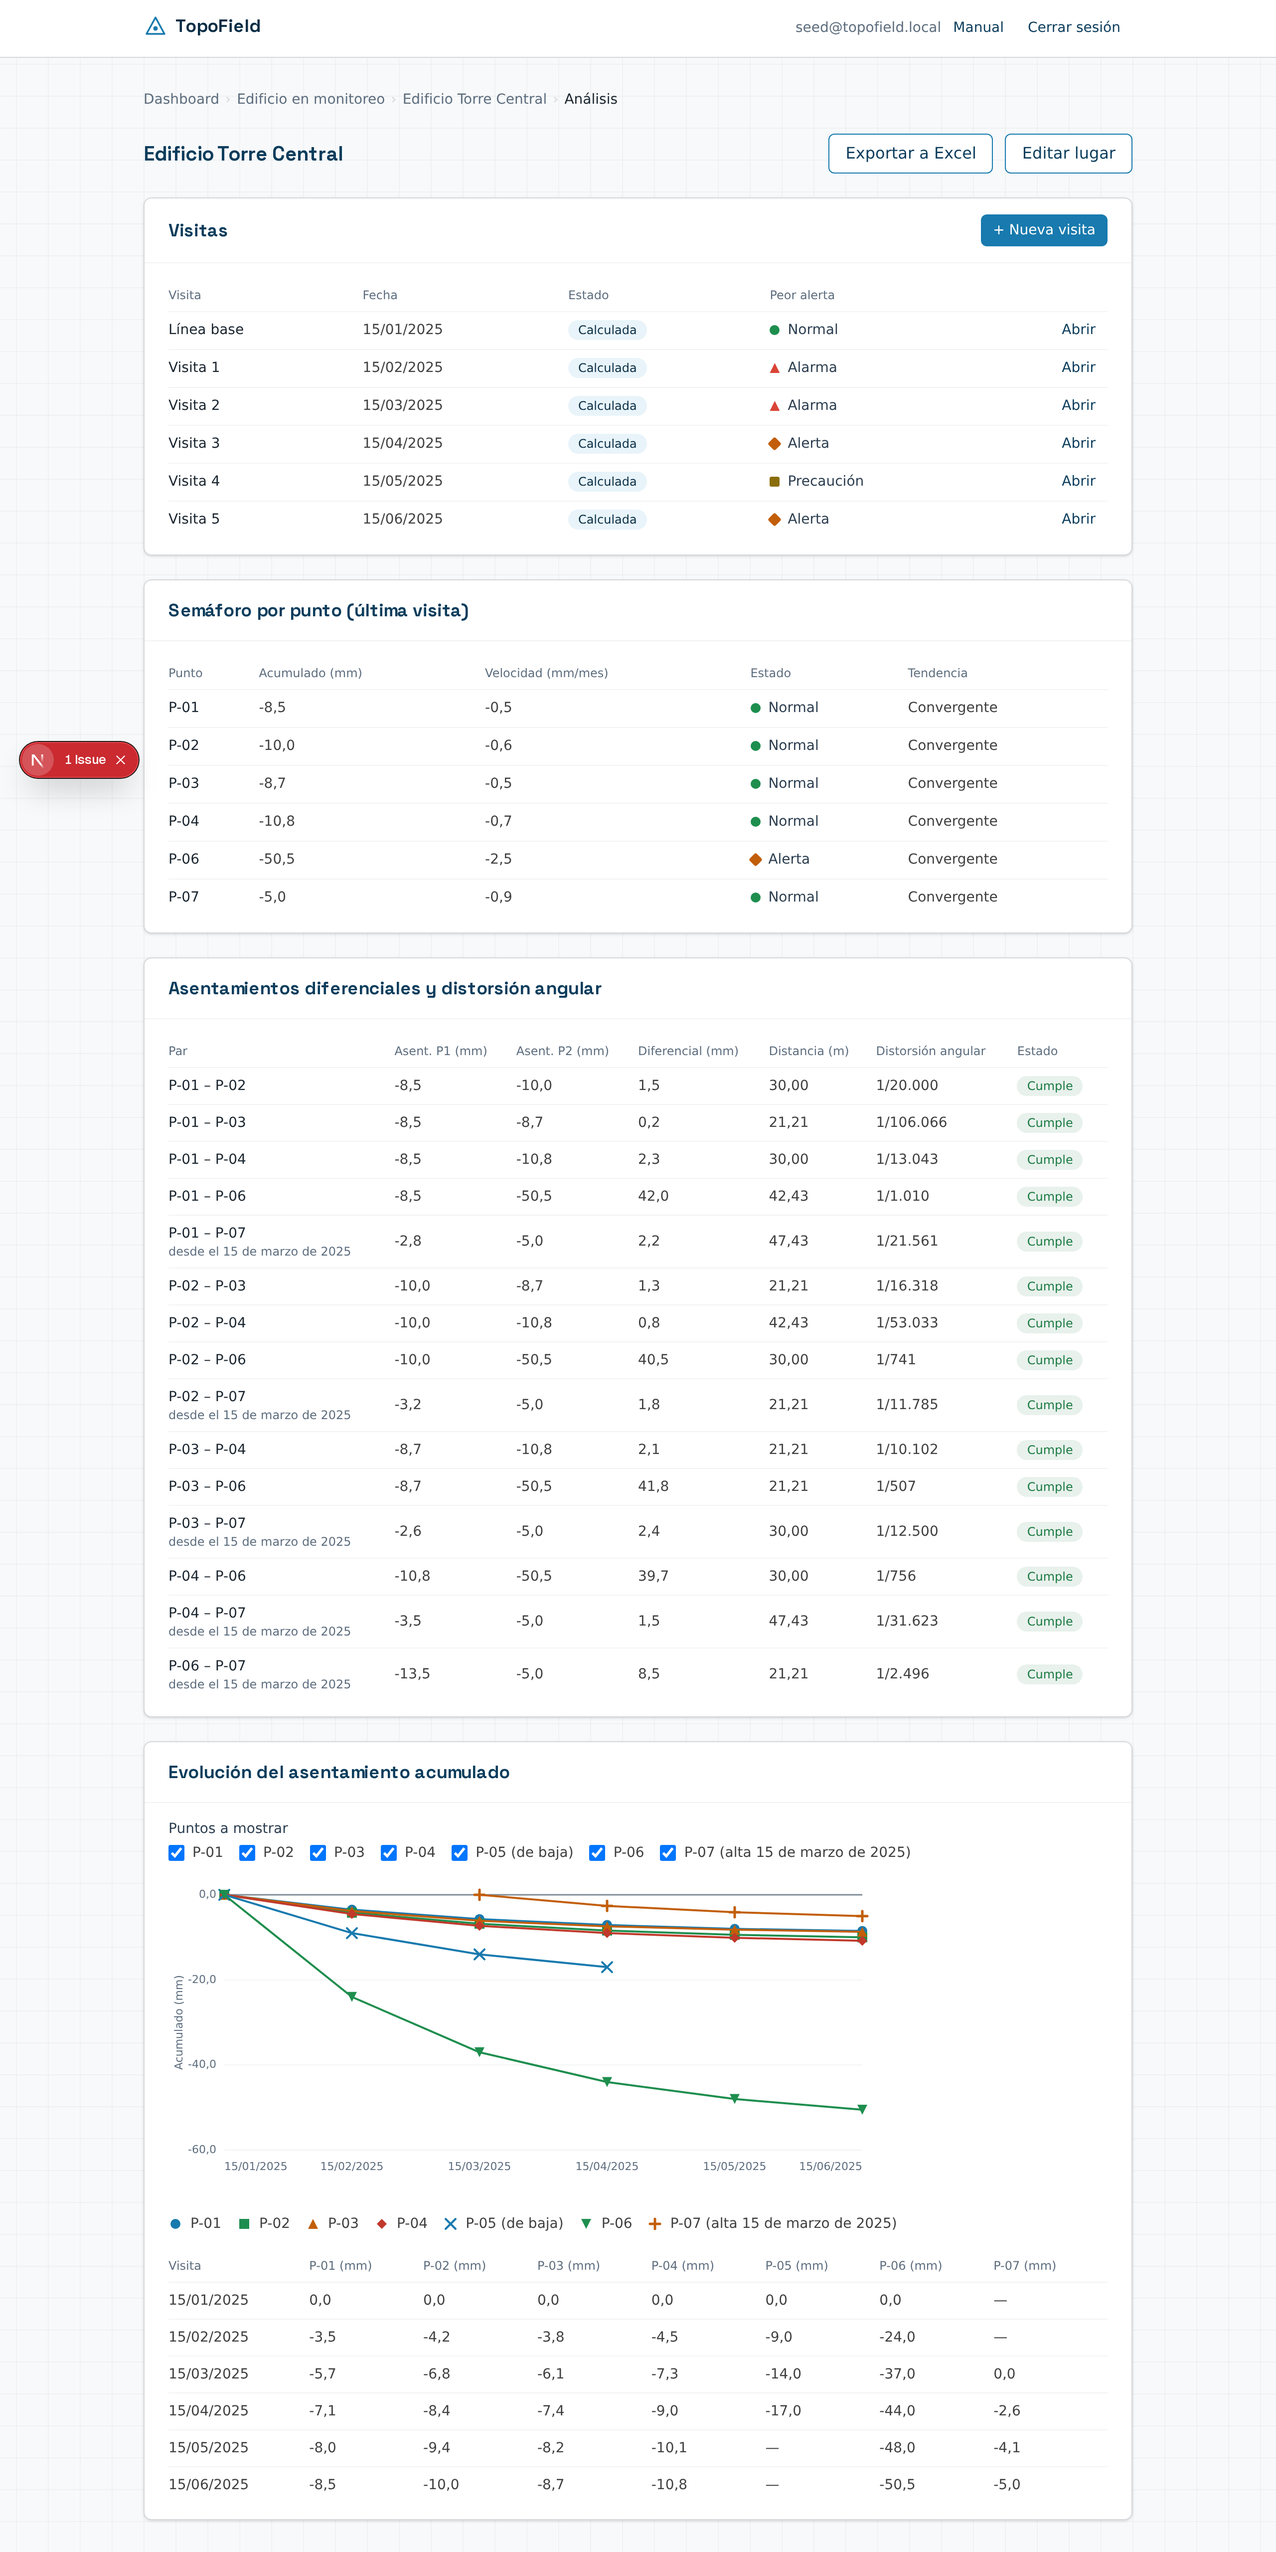
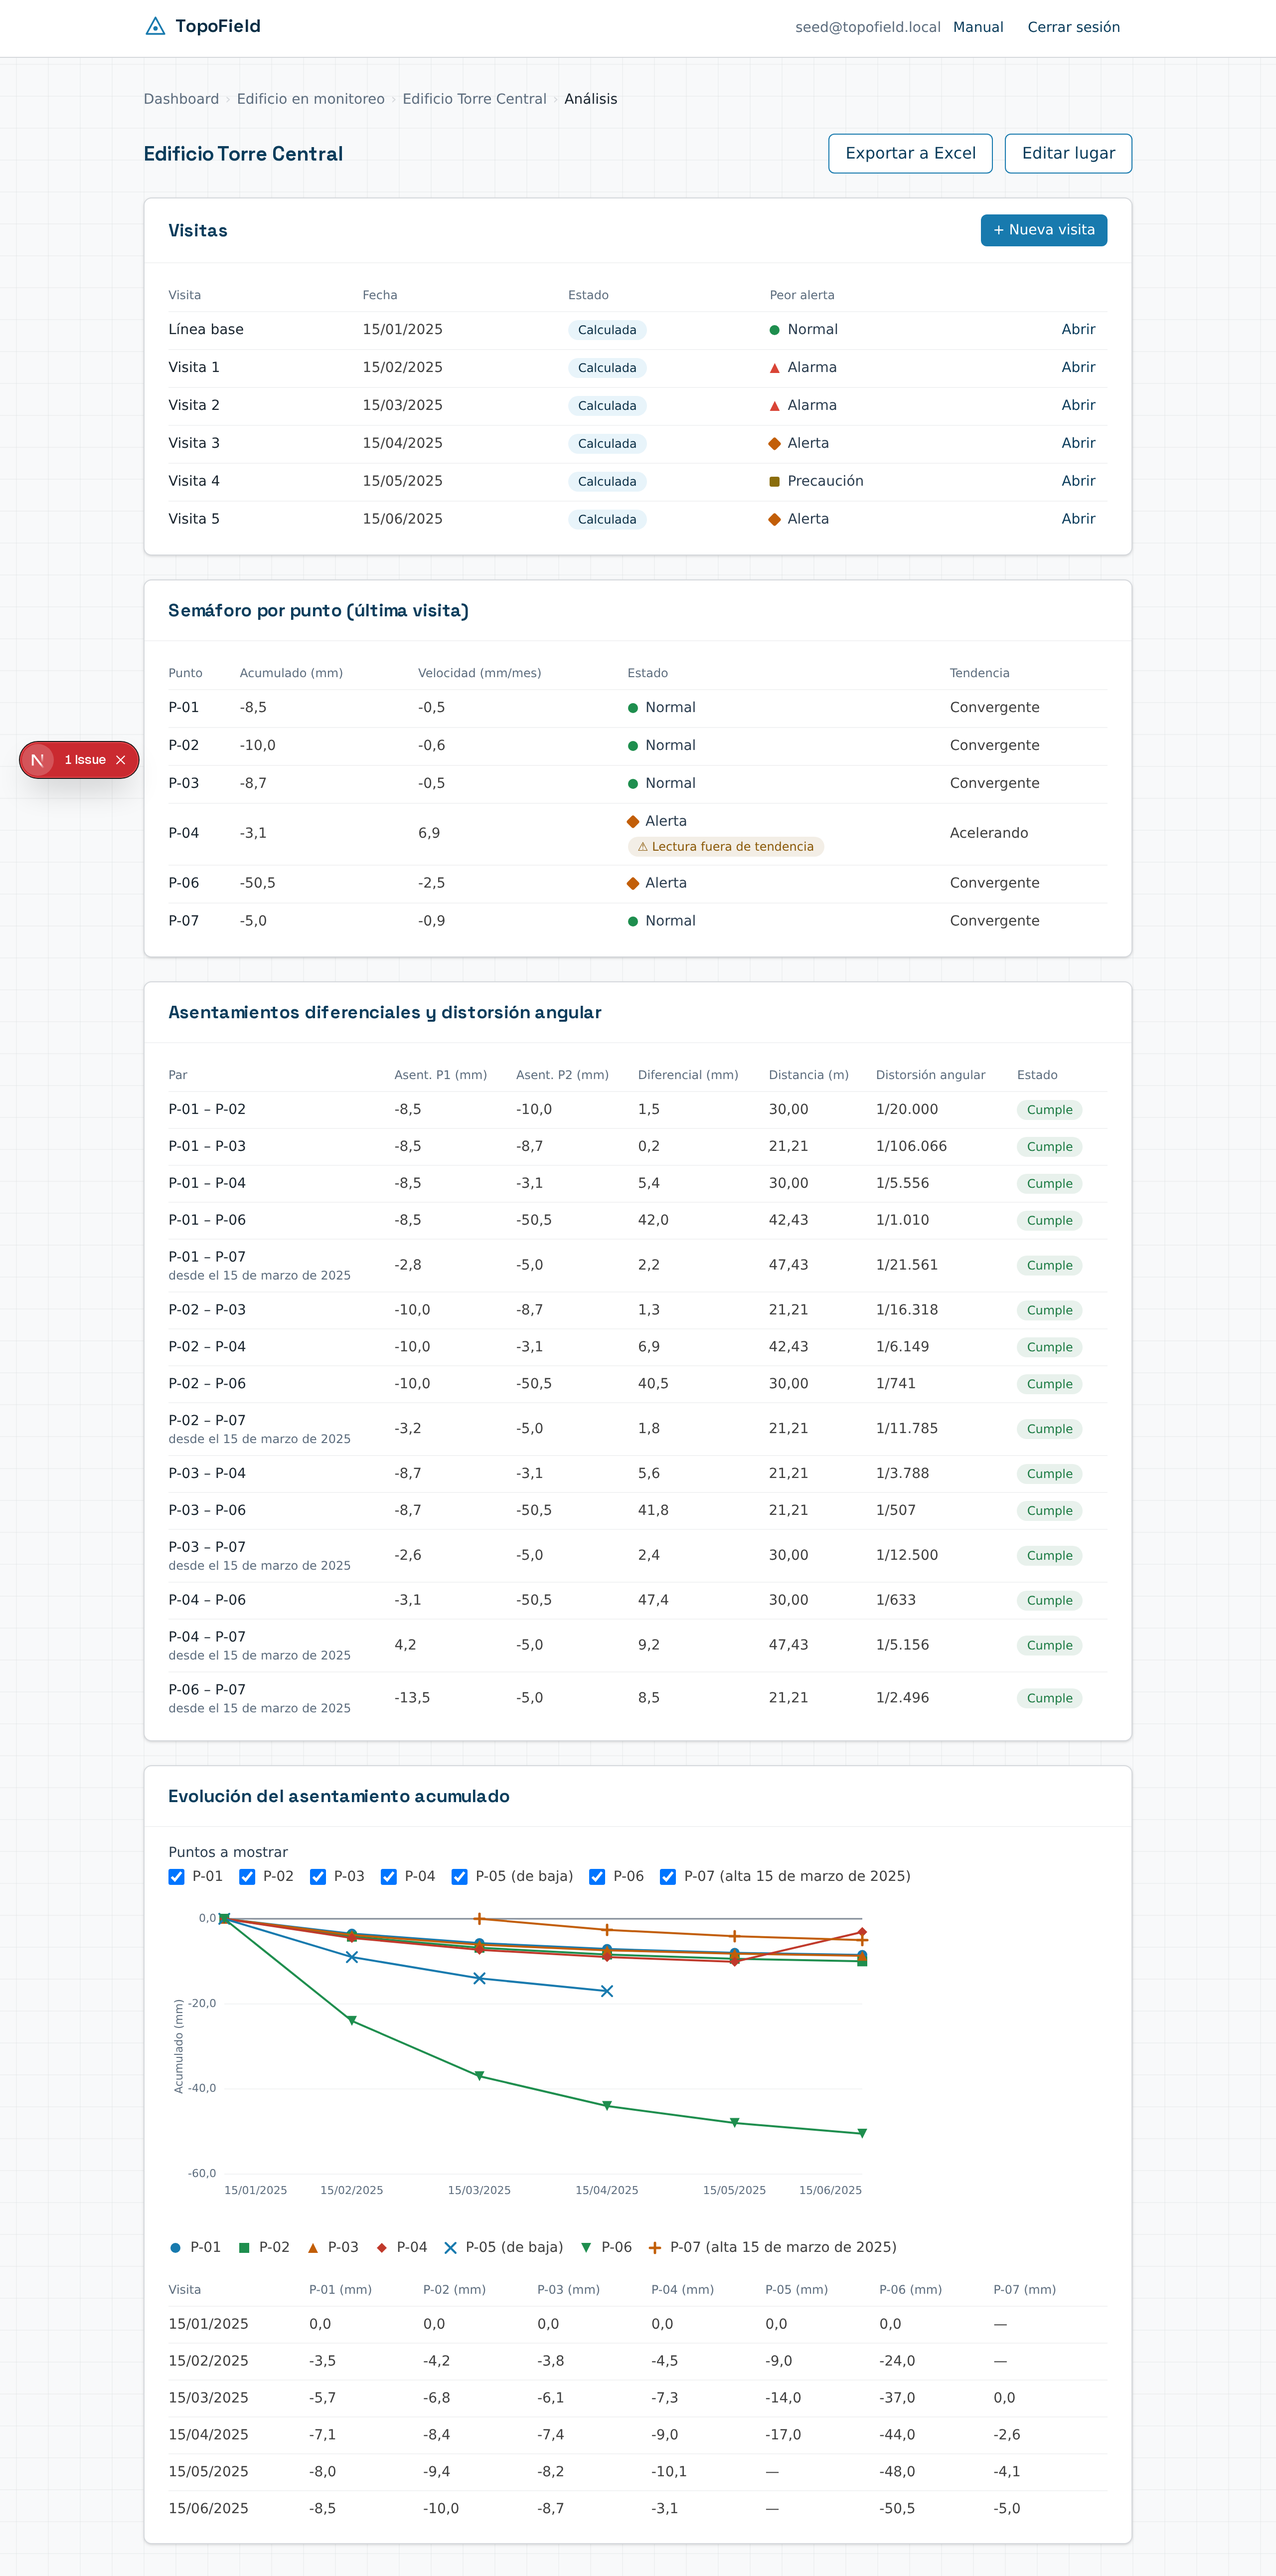
docs: el manual explica el aviso de lectura fuera de tendencia
En las dos copias: el aviso al capturar, en § 7.3, y la marca del
semáforo, en § 7.4. La captura 16 pasa a la visita 5, que muestra el aviso
de P-04 y la nota de P-05 de baja. Capturas 15 y 16 regeneradas.

diff --git a/src/app/(app)/manual/page.tsx b/src/app/(app)/manual/page.tsx
@@ -920,6 +920,38 @@ export default function ManualPage() {
           pena revisar, no un error de signo.
         </p>
 
+        <p>
+          <strong>Lecturas fuera de tendencia.</strong> Desde la tercera
+          lectura de un punto, la aplicación compara cada cota con la
+          tendencia de ese punto y avisa bajo la casilla si la lectura:
+        </p>
+
+        <ul className="ml-5 list-disc space-y-1">
+          <li>
+            va <strong>contra</strong> su tendencia más que el margen —por
+            ejemplo, un punto que viene bajando y de pronto sube—, o
+          </li>
+          <li>
+            lo mueve <strong>más del doble</strong> de lo que su ritmo
+            anterior preveía, más el margen.
+          </li>
+        </ul>
+
+        <p>
+          El margen absorbe el ruido de medición y depende del orden de
+          precisión de la visita: 1,5 mm en primer orden, 3 en segundo, 6 en
+          tercero y 12 en ordinario. Moverse <strong>menos</strong> de lo
+          previsto nunca avisa, porque un asentamiento por consolidación
+          frena con el tiempo.
+        </p>
+
+        <Nota titulo="El aviso no bloquea">
+          Pide verificar la lectura en la libreta o volver a medir; una
+          lectura atípica también puede ser real. Si dos visitas seguidas
+          salen marcadas, casi siempre el error está en la primera: la
+          segunda se compara contra una velocidad ya contaminada.
+        </Nota>
+
         <h3 className="mt-4 text-lg font-semibold">
           7.4 El semáforo y la gráfica
         </h3>
@@ -953,6 +985,17 @@ export default function ManualPage() {
           al indicador, así que se reconoce igual con daltonismo o en una
           impresión en blanco y negro.
         </Nota>
+
+        <p>
+          La columna de estado del semáforo muestra además la marca{" "}
+          <strong>⚠ Lectura fuera de tendencia</strong> cuando la lectura de
+          la última visita la tuvo. No cambia el nivel del semáforo: es un
+          aviso sobre la calidad del dato, no sobre la gravedad del
+          movimiento. Es útil cuando el mismo punto sale en{" "}
+          <strong>Alerta</strong> y <strong>Acelerando</strong>: la marca
+          indica que lo más probable es una lectura mal tomada, no una
+          aceleración real.
+        </p>
 
         <p>
           <strong>Un dato en alarma se registra con normalidad.</strong> El

diff --git a/docs/manual/README.md b/docs/manual/README.md
@@ -584,6 +584,25 @@ instante:
 Un valor positivo es un **levantamiento**, no un asentamiento, y se muestra
 como tal: es un hallazgo que vale la pena revisar, no un error de signo.
 
+**Lecturas fuera de tendencia.** Desde la tercera lectura de un punto, la
+aplicación compara cada cota con la tendencia de ese punto y avisa bajo la
+casilla si la lectura:
+
+- va **contra** su tendencia más que el margen —por ejemplo, un punto que
+  viene bajando y de pronto sube—, o
+- lo mueve **más del doble** de lo que su ritmo anterior preveía, más el
+  margen.
+
+El margen absorbe el ruido de medición y depende del orden de precisión de la
+visita: 1,5 mm en primer orden, 3 en segundo, 6 en tercero y 12 en ordinario.
+Moverse **menos** de lo previsto nunca avisa, porque un asentamiento por
+consolidación frena con el tiempo.
+
+> **El aviso no bloquea.** Pide verificar la lectura en la libreta o volver a
+> medir; una lectura atípica también puede ser real. Si dos visitas seguidas
+> salen marcadas, casi siempre el error está en la primera: la segunda se
+> compara contra una velocidad ya contaminada.
+
 ### 7.4 El semáforo y la gráfica
 
 ![Panel de análisis: visitas, semáforo por punto, diferenciales y gráfica](../../public/manual/15-panel-asentamientos.png)
@@ -606,6 +625,13 @@ cuatro niveles:
 > **El semáforo no se distingue solo por color.** Cada nivel tiene además una
 > forma propia y su nombre escrito junto al indicador, así que se reconoce
 > igual con daltonismo o en una impresión en blanco y negro.
+
+La columna de estado del semáforo muestra además la marca **⚠ Lectura fuera
+de tendencia** cuando la lectura de la última visita la tuvo. No cambia el
+nivel del semáforo: es un aviso sobre la calidad del dato, no sobre la
+gravedad del movimiento. Es útil cuando el mismo punto sale en **Alerta** y
+**Acelerando**: la marca indica que lo más probable es una lectura mal tomada,
+no una aceleración real.
 
 **Un dato en alarma se registra con normalidad.** El semáforo es un
 diagnóstico, no un control de captura: la aplicación **nunca** impide guardar
